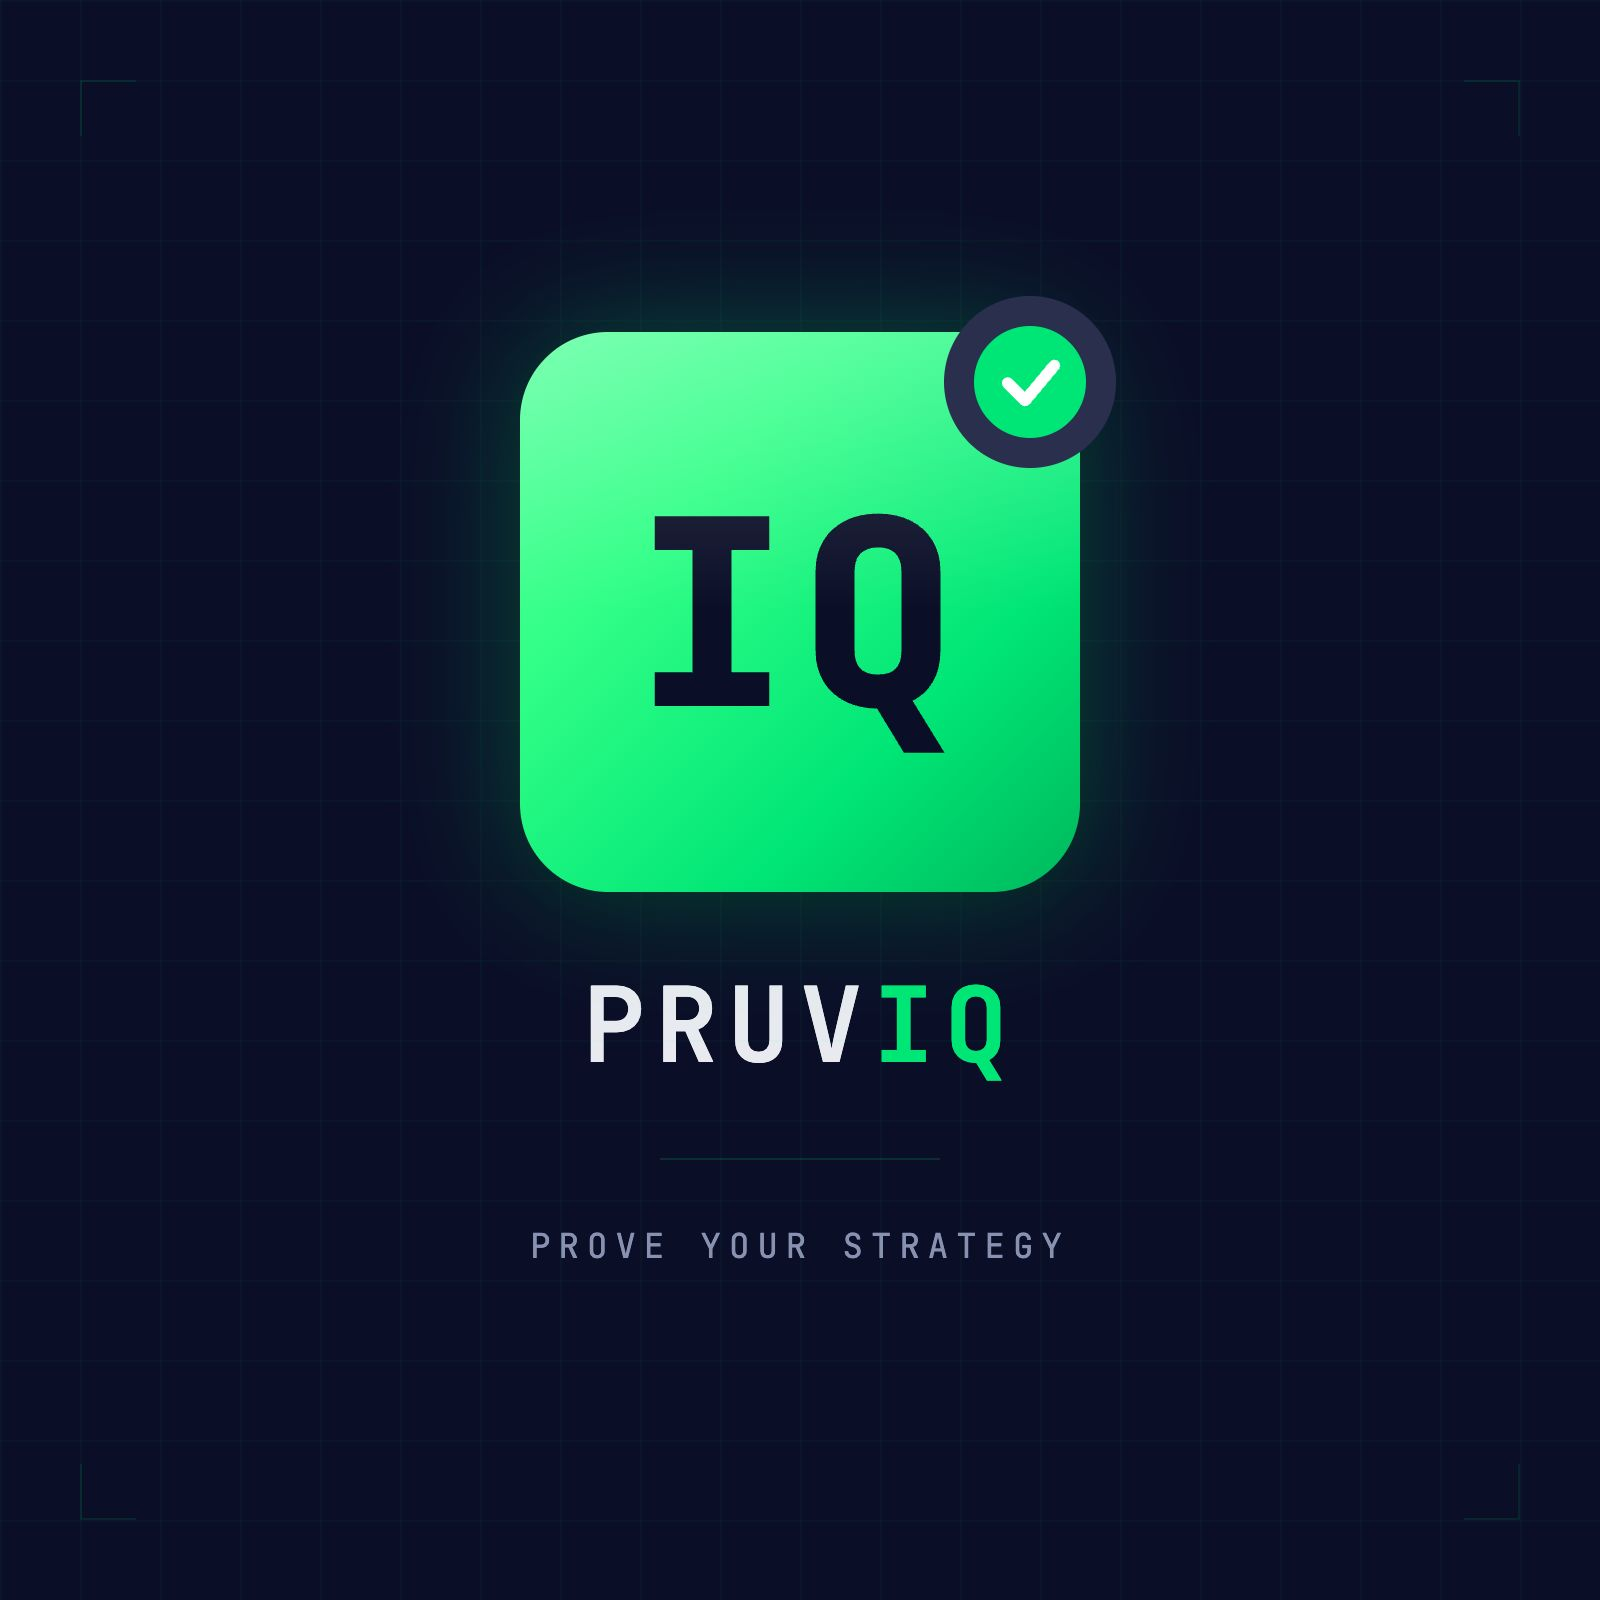
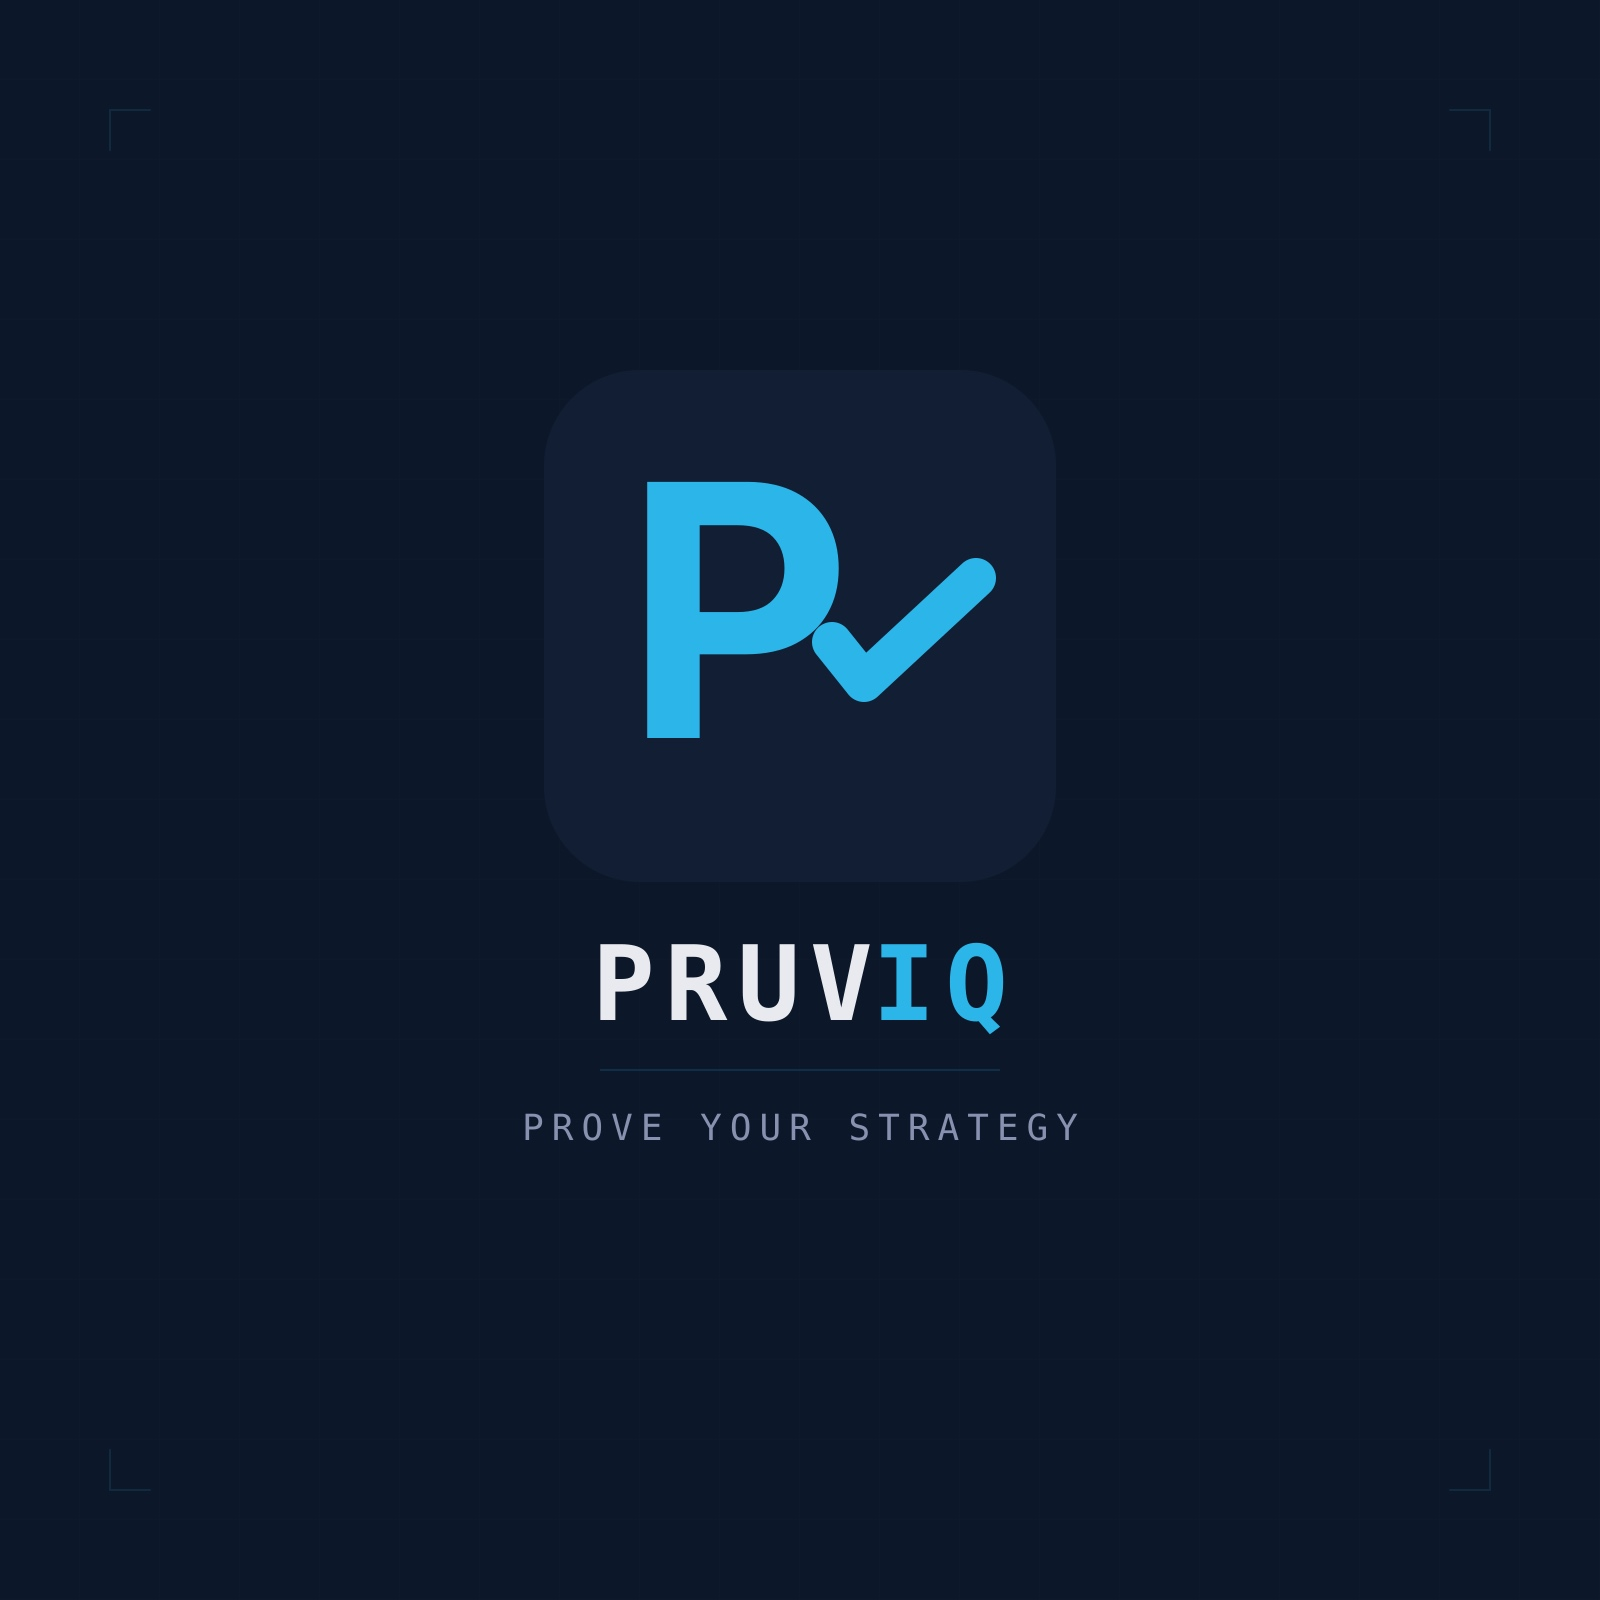
fix: compare timeout + top_n Optional + branding update
Backend:
- Compare endpoint: parallelize 5 strategies via asyncio.to_thread
  (18s→~4s for top_n=5), cap at 50 coins max
- top_n: Optional[int] (None = all coins) across all endpoints
- Remove hardcoded le=535 limit from Pydantic schemas

Frontend:
- Coin mode switching: clear selectedCoins on "All" mode
- BuilderPanel: dynamic max from /health coins_loaded
- "All Coins" mode omits top_n (backend defaults to all)

Branding:
- New Midnight P✓ flat design across all social assets
- Uniform letter spacing via single <text> + <tspan>
- Remove old icon-192/512, pruviq-logo/og/profile PNGs

diff --git a/src/components/SimulatorPage.tsx b/src/components/SimulatorPage.tsx
@@ -453,9 +453,9 @@ export default function SimulatorPage({ lang = 'en' }: Props) {
       leverage,
     };
 
-    if (coinMode === 'top') body.top_n = Math.min(topN, 535);
+    if (coinMode === 'top') body.top_n = topN;
     else if (coinMode === 'select' && selectedCoins.length > 0) body.symbols = selectedCoins;
-    else body.top_n = 535; // 'all' mode: use max allowed by backend
+    // 'all' mode: don't send top_n → backend defaults to all coins
 
     if (startDate) body.start_date = startDate;
     if (endDate) body.end_date = endDate;
@@ -646,6 +646,7 @@ export default function SimulatorPage({ lang = 'en' }: Props) {
           <BuilderPanel
             t={t}
             coinsLoaded={currentCoinCount}
+            totalCoins={coinsLoaded}
             demoMode={demoMode}
             availableIndicators={availableIndicators}
             selectedIndicators={selectedIndicators}

diff --git a/src/components/BuilderPanel.tsx b/src/components/BuilderPanel.tsx
@@ -12,6 +12,7 @@ interface Props {
   t: Record<string, any>;
   // API state
   coinsLoaded: number;
+  totalCoins: number;  // total available coins from /health API
   demoMode: boolean;
   // Indicators
   availableIndicators: IndicatorInfo[];
@@ -302,7 +303,7 @@ export default function BuilderPanel(props: Props) {
           </div>
           {props.coinMode === 'top' && (
             <div>
-              <input type="number" value={localTopN} min={1} max={535}
+              <input type="number" value={localTopN} min={1} max={props.totalCoins || 999}
                 onChange={(e: any) => setLocalTopN(e.target.value)}
                 onBlur={() => props.setTopN(parseInt(localTopN) || 50)}
                 class="w-full px-2 py-1 bg-[--color-bg-tooltip] border border-[--color-border] rounded font-mono text-xs text-[--color-text] outline-none focus:border-[--color-accent]"

diff --git a/backend/api/main.py b/backend/api/main.py
@@ -350,9 +350,14 @@ def _is_resampled(timeframe: str) -> bool:
     return timeframe != "1H"
 
 
+def _resolve_top_n(top_n: Optional[int]) -> int:
+    """Resolve top_n: None means all coins."""
+    return top_n if top_n is not None else data_manager.coin_count
+
+
 def _get_resampled_coins(
     symbols: Optional[List[str]],
-    top_n: int,
+    top_n: Optional[int],
     timeframe: str,
 ) -> List[tuple]:
     """Get coin DataFrames resampled to the requested timeframe.
@@ -367,9 +372,10 @@ def _get_resampled_coins(
                 pairs.append((sym.upper(), df))
         return pairs
     else:
+        n = _resolve_top_n(top_n)
         result = []
         for info in data_manager.coins:
-            if len(result) >= top_n:
+            if len(result) >= n:
                 break
             symbol = info["symbol"]
             df = data_manager.get_resampled(symbol, timeframe)
@@ -461,7 +467,8 @@ async def simulate(req: SimulationRequest):
             if not coins:
                 raise HTTPException(404, "None of the requested symbols found.")
         else:
-            coins = indicator_cache.get_top_n_for_strategy(strategy_id, data_manager, req.top_n) if has_cache else data_manager.get_top_n(req.top_n)
+            n = _resolve_top_n(req.top_n)
+            coins = indicator_cache.get_top_n_for_strategy(strategy_id, data_manager, n) if has_cache else data_manager.get_top_n(n)
 
     cost_model = CostModel.futures() if req.market_type == "futures" else CostModel.spot()
 
@@ -817,6 +824,81 @@ async def get_coin_stats():
     return CoinStatsResponse(**coin_stats_cache)
 
 
+def _run_one_compare_strategy(
+    strategy_id: str, entry: dict, req: CompareRequest,
+    cost_model, n: int,
+) -> StrategyResult:
+    """Run a single strategy for compare — designed to run in a thread."""
+    strategy, direction, _ = get_strategy(strategy_id)
+    has_cache = indicator_cache.strategy_count(strategy_id) > 0
+    coins = (
+        indicator_cache.get_top_n_for_strategy(strategy_id, data_manager, n)
+        if has_cache else data_manager.get_top_n(n)
+    )
+
+    all_trades = []
+    for sym, df in coins:
+        if not has_cache:
+            df = strategy.calculate_indicators(df.copy())
+        df = filter_df_by_date(df, getattr(req, 'start_date', None), getattr(req, 'end_date', None))
+        result = run_fast(
+            df, strategy, sym,
+            sl_pct=req.sl_pct / 100, tp_pct=req.tp_pct / 100,
+            max_bars=req.max_bars,
+            fee_pct=cost_model.fee_pct, slippage_pct=cost_model.slippage_pct,
+            direction=direction, market_type="futures",
+            strategy_id=strategy_id,
+            funding_rate_8h=getattr(cost_model, 'funding_rate_8h', 0.0001),
+        )
+        for trade in result.trades:
+            all_trades.append({"time": trade.entry_time, "pnl_pct": trade.pnl_pct, "exit_reason": trade.exit_reason})
+
+    all_trades.sort(key=lambda t: t["time"])
+
+    if not all_trades:
+        return StrategyResult(
+            strategy_id=strategy_id, name=entry["name"],
+            direction=direction, status=entry["status"],
+            total_trades=0, wins=0, losses=0, win_rate=0,
+            total_return_pct=0, profit_factor=0, max_drawdown_pct=0,
+            tp_count=0, sl_count=0, timeout_count=0, equity_curve=[],
+        )
+
+    wins = [t for t in all_trades if t["pnl_pct"] > 0]
+    losses = [t for t in all_trades if t["pnl_pct"] <= 0]
+    gross_profit = sum(t["pnl_pct"] for t in wins) if wins else 0
+    gross_loss = abs(sum(t["pnl_pct"] for t in losses)) if losses else 0.001
+
+    equity = 0.0
+    peak = 0.0
+    max_dd = 0.0
+    eq_times = []
+    eq_values = []
+    for t in all_trades:
+        equity += t["pnl_pct"]
+        peak = max(peak, equity)
+        max_dd = max(max_dd, peak - equity)
+        eq_times.append(t["time"][:10])
+        eq_values.append(equity)
+
+    return StrategyResult(
+        strategy_id=strategy_id, name=entry["name"],
+        direction=direction, status=entry["status"],
+        total_trades=len(all_trades), wins=len(wins), losses=len(losses),
+        win_rate=round(len(wins) / len(all_trades) * 100, 2),
+        total_return_pct=round(sum(t["pnl_pct"] for t in all_trades), 2),
+        profit_factor=round(gross_profit / gross_loss, 2),
+        max_drawdown_pct=round(max_dd, 2),
+        tp_count=sum(1 for t in all_trades if t["exit_reason"] == "tp"),
+        sl_count=sum(1 for t in all_trades if t["exit_reason"] == "sl"),
+        timeout_count=sum(1 for t in all_trades if t["exit_reason"] == "timeout"),
+        equity_curve=downsample_equity(eq_times, eq_values),
+    )
+
+
+COMPARE_MAX_COINS = 50  # Cap to prevent CF tunnel timeout
+
+
 @app.post("/simulate/compare", response_model=CompareResponse)
 async def simulate_compare(req: CompareRequest):
     """Run all strategies under identical SL/TP conditions for comparison."""
@@ -824,90 +906,23 @@ async def simulate_compare(req: CompareRequest):
         raise HTTPException(503, "Data not loaded yet. Try again shortly.")
 
     cost_model = CostModel.futures()
-    results = []
+    n = min(_resolve_top_n(req.top_n), COMPARE_MAX_COINS)
 
-    for strategy_id, entry in STRATEGY_REGISTRY.items():
-        strategy, direction, _ = get_strategy(strategy_id)
-
-        # Get coins for this strategy
-        has_cache = indicator_cache.strategy_count(strategy_id) > 0
-        coins = indicator_cache.get_top_n_for_strategy(strategy_id, data_manager, req.top_n) if has_cache else data_manager.get_top_n(req.top_n)
-
-        all_trades = []
-        for sym, df in coins:
-            if not has_cache:
-                df = strategy.calculate_indicators(df.copy())
-
-            df = filter_df_by_date(df, getattr(req, 'start_date', None), getattr(req, 'end_date', None))
-            result = run_fast(
-                df, strategy, sym,
-                sl_pct=req.sl_pct / 100,
-                tp_pct=req.tp_pct / 100,
-                max_bars=req.max_bars,
-                fee_pct=cost_model.fee_pct,
-                slippage_pct=cost_model.slippage_pct,
-                direction=direction,
-                market_type="futures",
-                strategy_id=strategy_id,
-                funding_rate_8h=getattr(cost_model, 'funding_rate_8h', 0.0001),
-            )
-            for trade in result.trades:
-                all_trades.append({"time": trade.entry_time, "pnl_pct": trade.pnl_pct, "exit_reason": trade.exit_reason})
-
-        all_trades.sort(key=lambda t: t["time"])
-
-        if not all_trades:
-            results.append(StrategyResult(
-                strategy_id=strategy_id, name=entry["name"],
-                direction=direction, status=entry["status"],
-                total_trades=0, wins=0, losses=0, win_rate=0,
-                total_return_pct=0, profit_factor=0, max_drawdown_pct=0,
-                tp_count=0, sl_count=0, timeout_count=0, equity_curve=[],
-            ))
-            continue
-
-        wins = [t for t in all_trades if t["pnl_pct"] > 0]
-        losses = [t for t in all_trades if t["pnl_pct"] <= 0]
-        gross_profit = sum(t["pnl_pct"] for t in wins) if wins else 0
-        gross_loss = abs(sum(t["pnl_pct"] for t in losses)) if losses else 0.001
-
-        equity = 0.0
-        peak = 0.0
-        max_dd = 0.0
-        eq_times = []
-        eq_values = []
-        for t in all_trades:
-            equity += t["pnl_pct"]
-            peak = max(peak, equity)
-            max_dd = max(max_dd, peak - equity)
-            eq_times.append(t["time"][:10])
-            eq_values.append(equity)
-
-        results.append(StrategyResult(
-            strategy_id=strategy_id,
-            name=entry["name"],
-            direction=direction,
-            status=entry["status"],
-            total_trades=len(all_trades),
-            wins=len(wins),
-            losses=len(losses),
-            win_rate=round(len(wins) / len(all_trades) * 100, 2),
-            total_return_pct=round(sum(t["pnl_pct"] for t in all_trades), 2),
-            profit_factor=round(gross_profit / gross_loss, 2),
-            max_drawdown_pct=round(max_dd, 2),
-            tp_count=sum(1 for t in all_trades if t["exit_reason"] == "tp"),
-            sl_count=sum(1 for t in all_trades if t["exit_reason"] == "sl"),
-            timeout_count=sum(1 for t in all_trades if t["exit_reason"] == "timeout"),
-            equity_curve=downsample_equity(eq_times, eq_values),
-        ))
+    # Run all strategies in parallel threads
+    results = await asyncio.gather(*[
+        asyncio.to_thread(
+            _run_one_compare_strategy, strategy_id, entry, req, cost_model, n
+        )
+        for strategy_id, entry in STRATEGY_REGISTRY.items()
+    ])
 
     return CompareResponse(
         sl_pct=req.sl_pct,
         tp_pct=req.tp_pct,
         max_bars=req.max_bars,
-        coins_used=req.top_n,
+        coins_used=n,
         data_range=data_manager.data_range(),
-        strategies=results,
+        strategies=list(results),
     )
 
 
@@ -943,7 +958,8 @@ async def simulate_validate(req: ValidateRequest):
             if not coins:
                 raise HTTPException(404, "None of the requested symbols found.")
         else:
-            coins = indicator_cache.get_top_n_for_strategy(strategy_id, data_manager, req.top_n) if has_cache else data_manager.get_top_n(req.top_n)
+            n = _resolve_top_n(req.top_n)
+            coins = indicator_cache.get_top_n_for_strategy(strategy_id, data_manager, n) if has_cache else data_manager.get_top_n(n)
 
     oos_frac = req.oos_pct / 100.0
     is_trades_all = []
@@ -1564,7 +1580,7 @@ async def run_backtest(req: BacktestRequest):
         if req.symbols:
             coin_list = data_manager.get_symbols(req.symbols)
         else:
-            coin_list = data_manager.get_top_n(req.top_n)
+            coin_list = data_manager.get_top_n(_resolve_top_n(req.top_n))
 
     if not coin_list:
         raise HTTPException(404, "No coins found.")

diff --git a/backend/api/schemas.py b/backend/api/schemas.py
@@ -17,8 +17,8 @@ class SimulationRequest(BaseModel):
     tp_pct: float = Field(default=8.0, ge=1.0, le=30.0, description="Take Profit %")
     max_bars: int = Field(default=48, ge=6, le=168, description="Max holding period (bars)")
     market_type: str = Field(default="futures", description="spot | futures")
-    symbols: Optional[List[str]] = Field(default=None, description="Specific symbols (null = top 50)")
-    top_n: int = Field(default=50, ge=1, le=535, description="Number of coins if symbols is null")
+    symbols: Optional[List[str]] = Field(default=None, description="Specific symbols (null = use top_n)")
+    top_n: Optional[int] = Field(default=None, ge=1, description="Number of coins (null = all coins)")
     start_date: Optional[str] = Field(default=None, description="Backtest start date (YYYY-MM-DD)")
     end_date: Optional[str] = Field(default=None, description="Backtest end date (YYYY-MM-DD)")
     timeframe: str = Field(default="1H", description="Candle timeframe: 1H, 2H, 4H, 6H, 12H, 1D, 1W")
@@ -240,7 +240,7 @@ class CompareRequest(BaseModel):
     sl_pct: float = Field(default=10.0, ge=1.0, le=30.0, description="Stop Loss %")
     tp_pct: float = Field(default=8.0, ge=1.0, le=30.0, description="Take Profit %")
     max_bars: int = Field(default=48, ge=6, le=168, description="Max holding period (bars)")
-    top_n: int = Field(default=50, ge=1, le=535, description="Number of coins")
+    top_n: Optional[int] = Field(default=None, ge=1, description="Number of coins (null = all)")
 
 
 class StrategyResult(BaseModel):
@@ -300,7 +300,7 @@ class BacktestRequest(BaseModel):
     sl_pct: float = Field(default=10.0, ge=0.5, le=50.0, description="Stop Loss %")
     tp_pct: float = Field(default=8.0, ge=0.5, le=100.0, description="Take Profit %")
     max_bars: int = Field(default=48, ge=1, le=168, description="Max holding period (bars)")
-    top_n: int = Field(default=50, ge=1, le=535, description="Number of coins")
+    top_n: Optional[int] = Field(default=None, ge=1, description="Number of coins (null = all)")
     symbols: Optional[List[str]] = Field(default=None, description="Specific symbols")
     start_date: Optional[str] = Field(default=None, description="Backtest start date (YYYY-MM-DD)")
     end_date: Optional[str] = Field(default=None, description="Backtest end date (YYYY-MM-DD)")
@@ -439,7 +439,7 @@ class ValidateRequest(BaseModel):
     tp_pct: float = Field(default=8.0, ge=1.0, le=30.0)
     max_bars: int = Field(default=48, ge=6, le=168)
     market_type: str = Field(default="futures")
-    top_n: int = Field(default=50, ge=1, le=535)
+    top_n: Optional[int] = Field(default=None, ge=1, description="Number of coins (null = all)")
     symbols: Optional[List[str]] = Field(default=None)
     oos_pct: float = Field(default=30.0, ge=10.0, le=50.0, description="OOS split %")
     mc_runs: int = Field(default=1000, ge=100, le=5000, description="Monte Carlo runs")
